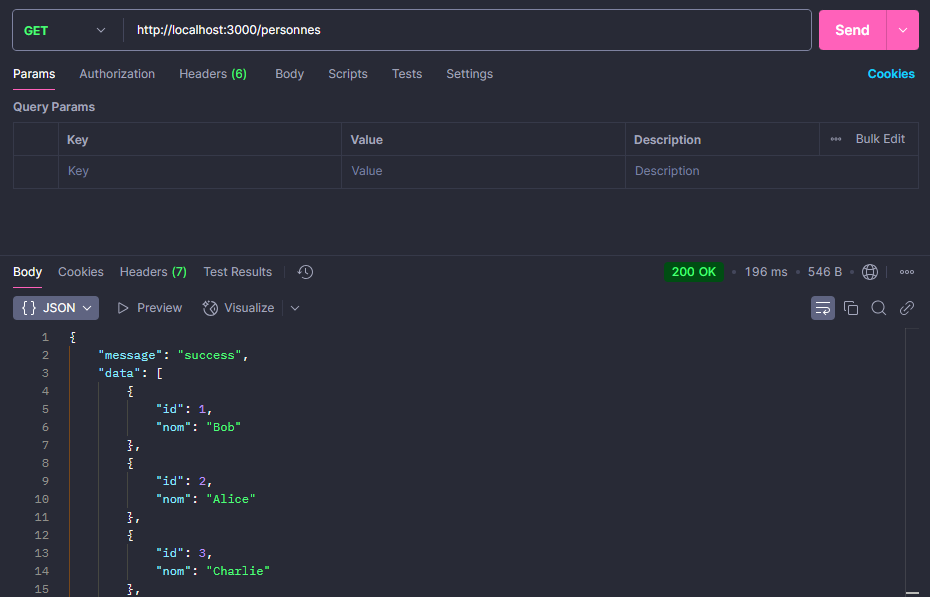
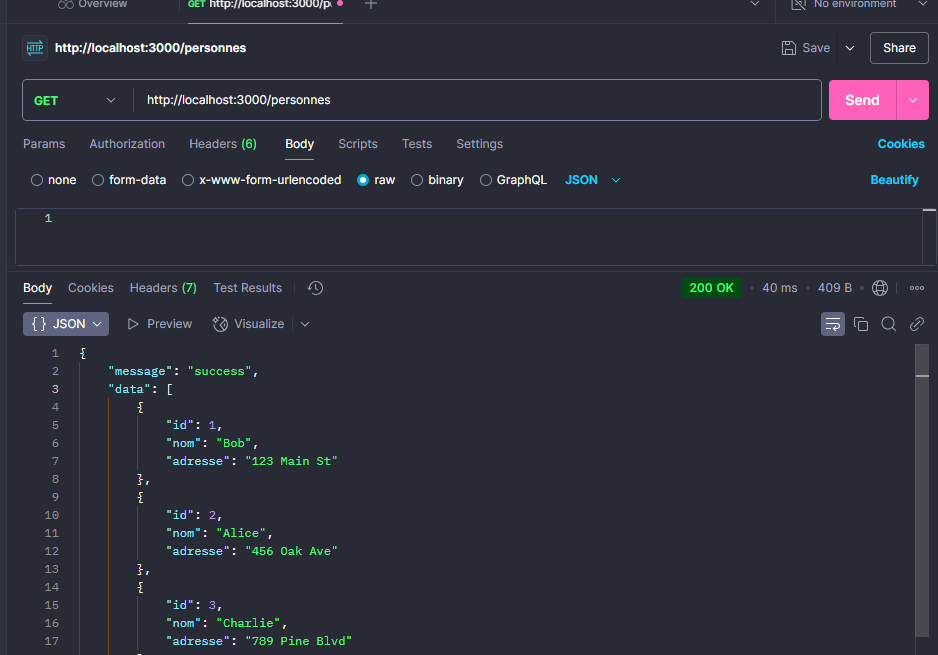
ajout

diff --git a/TP2_SOA/README.md b/TP2_SOA/README.md
@@ -18,26 +18,26 @@ Ce TP a pour objectif de créer une API RESTful en utilisant **Express JS** et *
 
 ## 🎯 Objectifs
 
-- Créer une API REST avec **Express JS**.
-- Utiliser les bonnes pratiques pour les API RESTful.
-- Gérer une base de données avec **SQLite3**.
-- Optionnel : Sécuriser l'API avec **Keycloak**.
+✅ Créer une API REST avec **Express JS**.
+✅  Utiliser les bonnes pratiques pour les API RESTful.
+✅  Gérer une base de données avec **SQLite3**.
+✅  Optionnel : Sécuriser l'API avec **Keycloak**.
 
 ---
 
 ## 🛠 Technologies Utilisées
 
-- **Node.js** : Environnement d'exécution JavaScript.
-- **Express JS** : Framework pour structurer l'API.
-- **SQLite3** : Base de données légère et embarquée.
-- **Keycloak** (Optionnel) : Solution d'authentification OAuth 2.0.
-- **Postman** : Outil de test des endpoints de l'API.
+-🟢 **Node.js** : Environnement d'exécution JavaScript.
+- ⚡**Express JS** : Framework pour structurer l'API.
+- 🗄**SQLite3** : Base de données légère et embarquée.
+- 🔐**Keycloak** (Optionnel) : Solution d'authentification OAuth 2.0.
+- 🛠**Postman** : Outil de test des endpoints de l'API.
 
 ---
 
 ## 🚀 Étapes du TP
 
-### **Étape 1 : Initialisation du Projet**
+###  1⃣ **Initialisation du Projet**
 
 1. Créez un dossier pour votre projet.
 2. Initialisez un projet Node.js :
@@ -52,9 +52,9 @@ Ce TP a pour objectif de créer une API RESTful en utilisant **Express JS** et *
     npm install express sqlite3
 ```
 
-### **Étape 2 : Configuration de SQLite3**
-
-```bash
+###  2⃣  **Configuration de SQLite3**
+📄 Créer database.js et ajouter :
+```JavaScript
     const sqlite3 = require('sqlite3').verbose();
 
     const db = new sqlite3.Database('./maBaseDeDonnees.sqlite', sqlite3.OPEN_READWRITE | sqlite3.OPEN_CREATE, (err) => {
@@ -81,5 +81,308 @@ Ce TP a pour objectif de créer une API RESTful en utilisant **Express JS** et *
 
     module.exports = db;
 ```
+3⃣ Création de l'API avec Express
+📄 Créer index.js et ajouter :
 
-![Logo du projet](images/img1.png)
+```JavaScript 
+    const express = require('express');
+const session = require('express-session');
+const Keycloak = require('keycloak-connect');
+const db = require('./database');
+const app = express();
+app.use(express.json());
+const PORT = 3000;
+
+// Session configuration for Keycloak
+const memoryStore = new session.MemoryStore();
+app.use(session({
+  secret: 'api-secret',
+  resave: false,
+  saveUninitialized: true,
+  store: memoryStore
+}));
+
+// Keycloak configuration
+const keycloak = new Keycloak({ store: memoryStore }, './keycloak-config.json');
+app.use(keycloak.middleware());
+
+// Root endpoint
+app.get('/', (req, res) => {
+  res.json("Registre de personnes! Choisissez le bon routage!")
+});
+
+// Secure endpoint example
+app.get('/secure', keycloak.protect(), (req, res) => {
+  res.json({ message: 'Vous êtes authentifié !' });
+});
+
+// Get all persons - protected by Keycloak
+app.get('/personnes', keycloak.protect(), (req, res) => {
+  db.all("SELECT * FROM personnes", [], (err, rows) => {
+    if (err) {
+      res.status(400).json({
+        "error": err.message
+      });
+      return;
+    }
+    res.json({
+      "message": "success",
+      "data": rows
+    });
+  });
+});
+
+// Get person by ID - protected by Keycloak
+app.get('/personnes/:id', keycloak.protect(), (req, res) => {
+  const id = req.params.id;
+  db.get("SELECT * FROM personnes WHERE id = ?", [id], (err, row) => {
+    if (err) {
+      res.status(400).json({
+        "error": err.message
+      });
+      return; 
+    }
+    if (!row) {
+      res.status(404).json({
+        "message": "Person not found"
+      });
+      return;
+    }
+    res.json({
+      "message": "success",
+      "data": row 
+    });
+  });
+});
+
+// Create a new person - protected by Keycloak
+app.post('/personnes', keycloak.protect(), (req, res) => {
+  const { nom, adresse } = req.body;
+  if (!nom) {
+    res.status(400).json({
+      "error": "Name is required"
+    });
+    return;
+  }
+  
+  db.run(`INSERT INTO personnes (nom, adresse) VALUES (?, ?)`, [nom, adresse || null], function(err) {
+    if (err) {
+      res.status(400).json({
+        "error": err.message
+      });
+      return; 
+    }
+    res.status(201).json({
+      "message": "success",
+      "data": {
+        id: this.lastID 
+      }
+    });
+  });
+});
+
+// Update a person - protected by Keycloak
+app.put('/personnes/:id', keycloak.protect(), (req, res) => {
+  const id = req.params.id;
+  const { nom, adresse } = req.body;
+  
+  // First check if the person exists
+  db.get("SELECT * FROM personnes WHERE id = ?", [id], (err, row) => {
+    if (err) {
+      res.status(400).json({
+        "error": err.message
+      });
+      return;
+    }
+    if (!row) {
+      res.status(404).json({
+        "message": "Person not found"
+      });
+      return;
+    }
+    
+    // If the person exists, update their information
+    const nomToUpdate = nom || row.nom;
+    const adresseToUpdate = adresse !== undefined ? adresse : row.adresse;
+    
+    db.run(`UPDATE personnes SET nom = ?, adresse = ? WHERE id = ?`, 
+           [nomToUpdate, adresseToUpdate, id], function(err) {
+      if (err) {
+        res.status(400).json({
+          "error": err.message
+        });
+        return; 
+      }
+      
+      if (this.changes === 0) {
+        res.status(404).json({
+          "message": "No person found with that ID"
+        });
+        return;
+      }
+      
+      res.json({
+        "message": "success",
+        "changes": this.changes
+      });
+    });
+  });
+});
+
+// Delete a person - protected by Keycloak
+app.delete('/personnes/:id', keycloak.protect(), (req, res) => {
+  const id = req.params.id;
+  
+  db.run(`DELETE FROM personnes WHERE id = ?`, id, function(err) {
+    if (err) {
+      res.status(400).json({
+        "error": err.message
+      });
+      return;
+    }
+    
+    if (this.changes === 0) {
+      res.status(404).json({
+        "message": "No person found with that ID"
+      });
+      return;
+    }
+    
+    res.json({
+      "message": "success",
+      "changes": this.changes
+    });
+  });
+});
+
+// Start the server
+app.listen(PORT, () => {
+  console.log(`Server running on port ${PORT}`);
+});
+
+```
+4⃣ Modification de la Base de Données
+Ajout d'une colonne adresse :
+```JavaScript
+    db.run(`CREATE TABLE IF NOT EXISTS personnes (
+    id INTEGER PRIMARY KEY AUTOINCREMENT,
+    nom TEXT NOT NULL,
+    adresse TEXT
+    )`);
+```
+
+5⃣ 🧪 Tests avec Postman
+🌐 Routes de l'API
+
+🔹 GET /personnes → Récupérer toutes les personnes
+![Récupérer toutes les personnes](images/img1.png)
+
+🔹 GET /personnes/1 → Récupérer la personne d'ID 1
+![Récupérer la personne d'ID 1](images/img2.png)
+
+🔹 GET /personnes/1 → Récupérer la personne d'ID 2
+![Récupérer la personne d'ID 2](images/img3.png)
+
+🔹 GET /personnes/1 → Récupérer la personne d'ID 3
+![Récupérer la personne d'ID 3](images/img4.png)
+
+🔹 GET /personnes/1 → Récupérer la personne d'ID 10 → message d'erreur "personne n'est pas trouvable "
+![Récupérer la personne d'ID 10](images/img5.png) 
+
+🔹 POST /personnes → Ajouter une personne { "nom": "samah", "adresse": "mednine" }
+![Récupérer personne d'ID 10](images/img6.png) 
+
+🔹 PUT /personnes/1 → Modifier { "nom": "samah SAIDI", "adresse": "Djerba" } / { "nom": "samah " }
+![Modifier la personne d'ID 4](images/img7.png)
+ ![Modifier la personne d'ID 4](images/img8.png) 
+
+🔹 DELETE /personnes/1 → Supprimer une personne
+![Supprimer lne personne d'ID 4](images/img9.png)
+
+
+6⃣ (🔐 Optionnel) Authentification avec Keycloak
+1. Installation :
+```bash
+    npm install keycloak-connect
+```
+2. Configuration Keycloak :
+Créer un fichier de configuration Keycloak, par exemple keycloak-config.json, 
+contenant :
+
+```bash
+{
+    "realm": "api-realm",
+    "auth-server-url": "http://localhost:8080/auth",
+    "ssl-required": "external",
+    "resource": "pai-id",
+    "credentials": 
+    {
+    "secret": "api-secret"
+    },
+    "confidential-port": 0
+}
+```
+3. Ajouter Keycloak dans votre API : Modifiez index.js pour inclure Keycloak :
+```bash
+    const session = require('express-session');
+    const Keycloak = require('keycloak-connect');
+    const memoryStore = new session.MemoryStore();
+    app.use(session(
+        {
+    secret: 'api-secret', 
+    resave: false,
+    saveUninitialized: true,
+    store: memoryStore
+    }));
+    // Configuration de Keycloak
+    const keycloak = new Keycloak({ store: memoryStore }, './keycloak-config.json');
+    app.use(keycloak.middleware());
+    // Exemple : Protéger une route avec Keycloak
+    app.get('/secure', keycloak.protect(), (req, res) => {
+    res.json({ message: 'Vous êtes authentifié !' });
+    });
+
+```
+4. Pour sécuriser les autres routes, utilisez keycloak.protect() ::
+```bash
+    // Exemple de sécurisation d'une route existante
+    app.get('/personnes', keycloak.protect(), (req, res) => 
+    {
+    db.all("SELECT * FROM personnes", [], (err, rows) => {
+    if (err) {
+    res.status(400).json({ "error": err.message });
+    return;
+    }
+    res.json({ "message": "success", "data": rows });
+    });
+    });
+```
+5. Configurez Keycloak :
+Créez un fichier keycloak-config.json avec les paramètres de votre realm et client Keycloak.
+
+6. 🧪 Tester avec Postman :
+
+Ajoutez un token JWT dans les en-têtes des requêtes pour accéder aux routes sécurisées.
+
+🔹 POST : http://localhost:8080/auth/realms/api-realm/protocol/openid-connect/token
+![POST](images/img10.png)
+![POST](images/img11.png)
+🔹 GET /personnes
+![GET](images/img12.png)
+![GET](images/img13.png)
+![GET](images/img14.png)
+![GET](images/img15.png)
+![GET](images/img16.png)
+🔹 POST /personnes
+![POST](images/img17.png)
+![PUT](images/img18.png)
+![DELETE](images/img19.png)
+
+
+📜 Auteur
+👤 Samah Saidi
+4Info - Classe DS1
+📧 Contact: samah.saidi@polytechnicien.tn
+🔗 GitHub: https://github.com/samah-saidi
+
+
